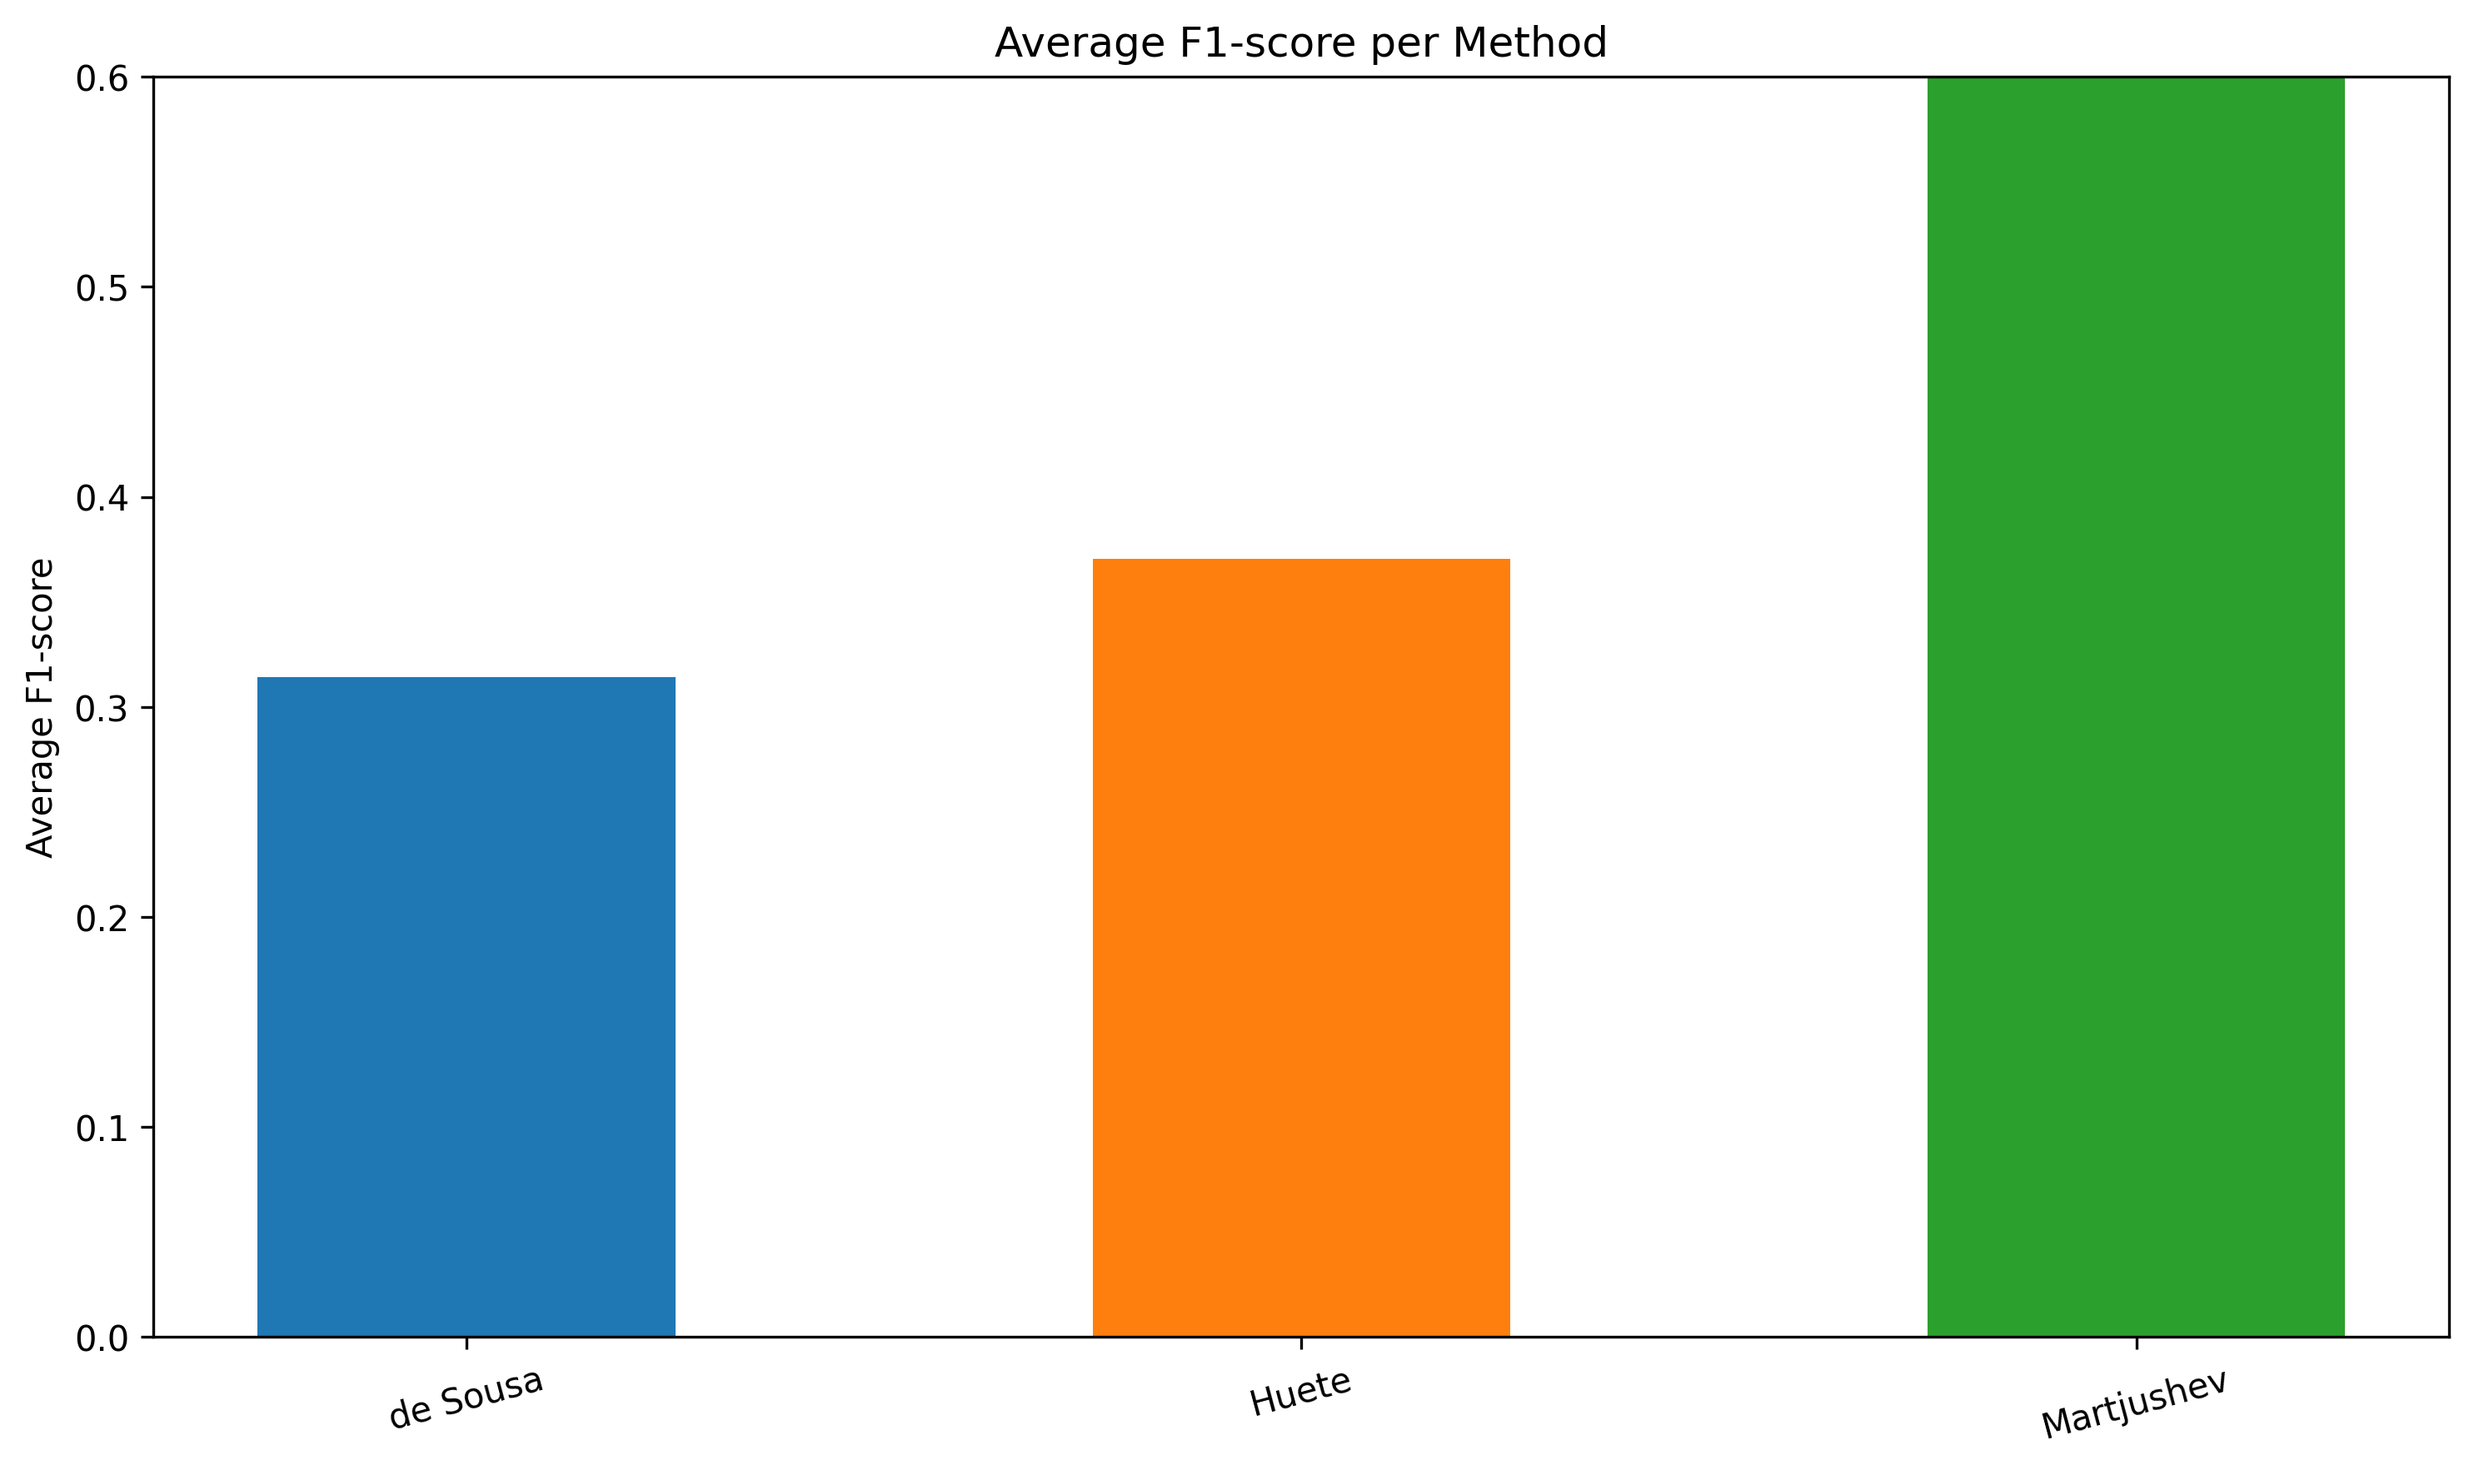
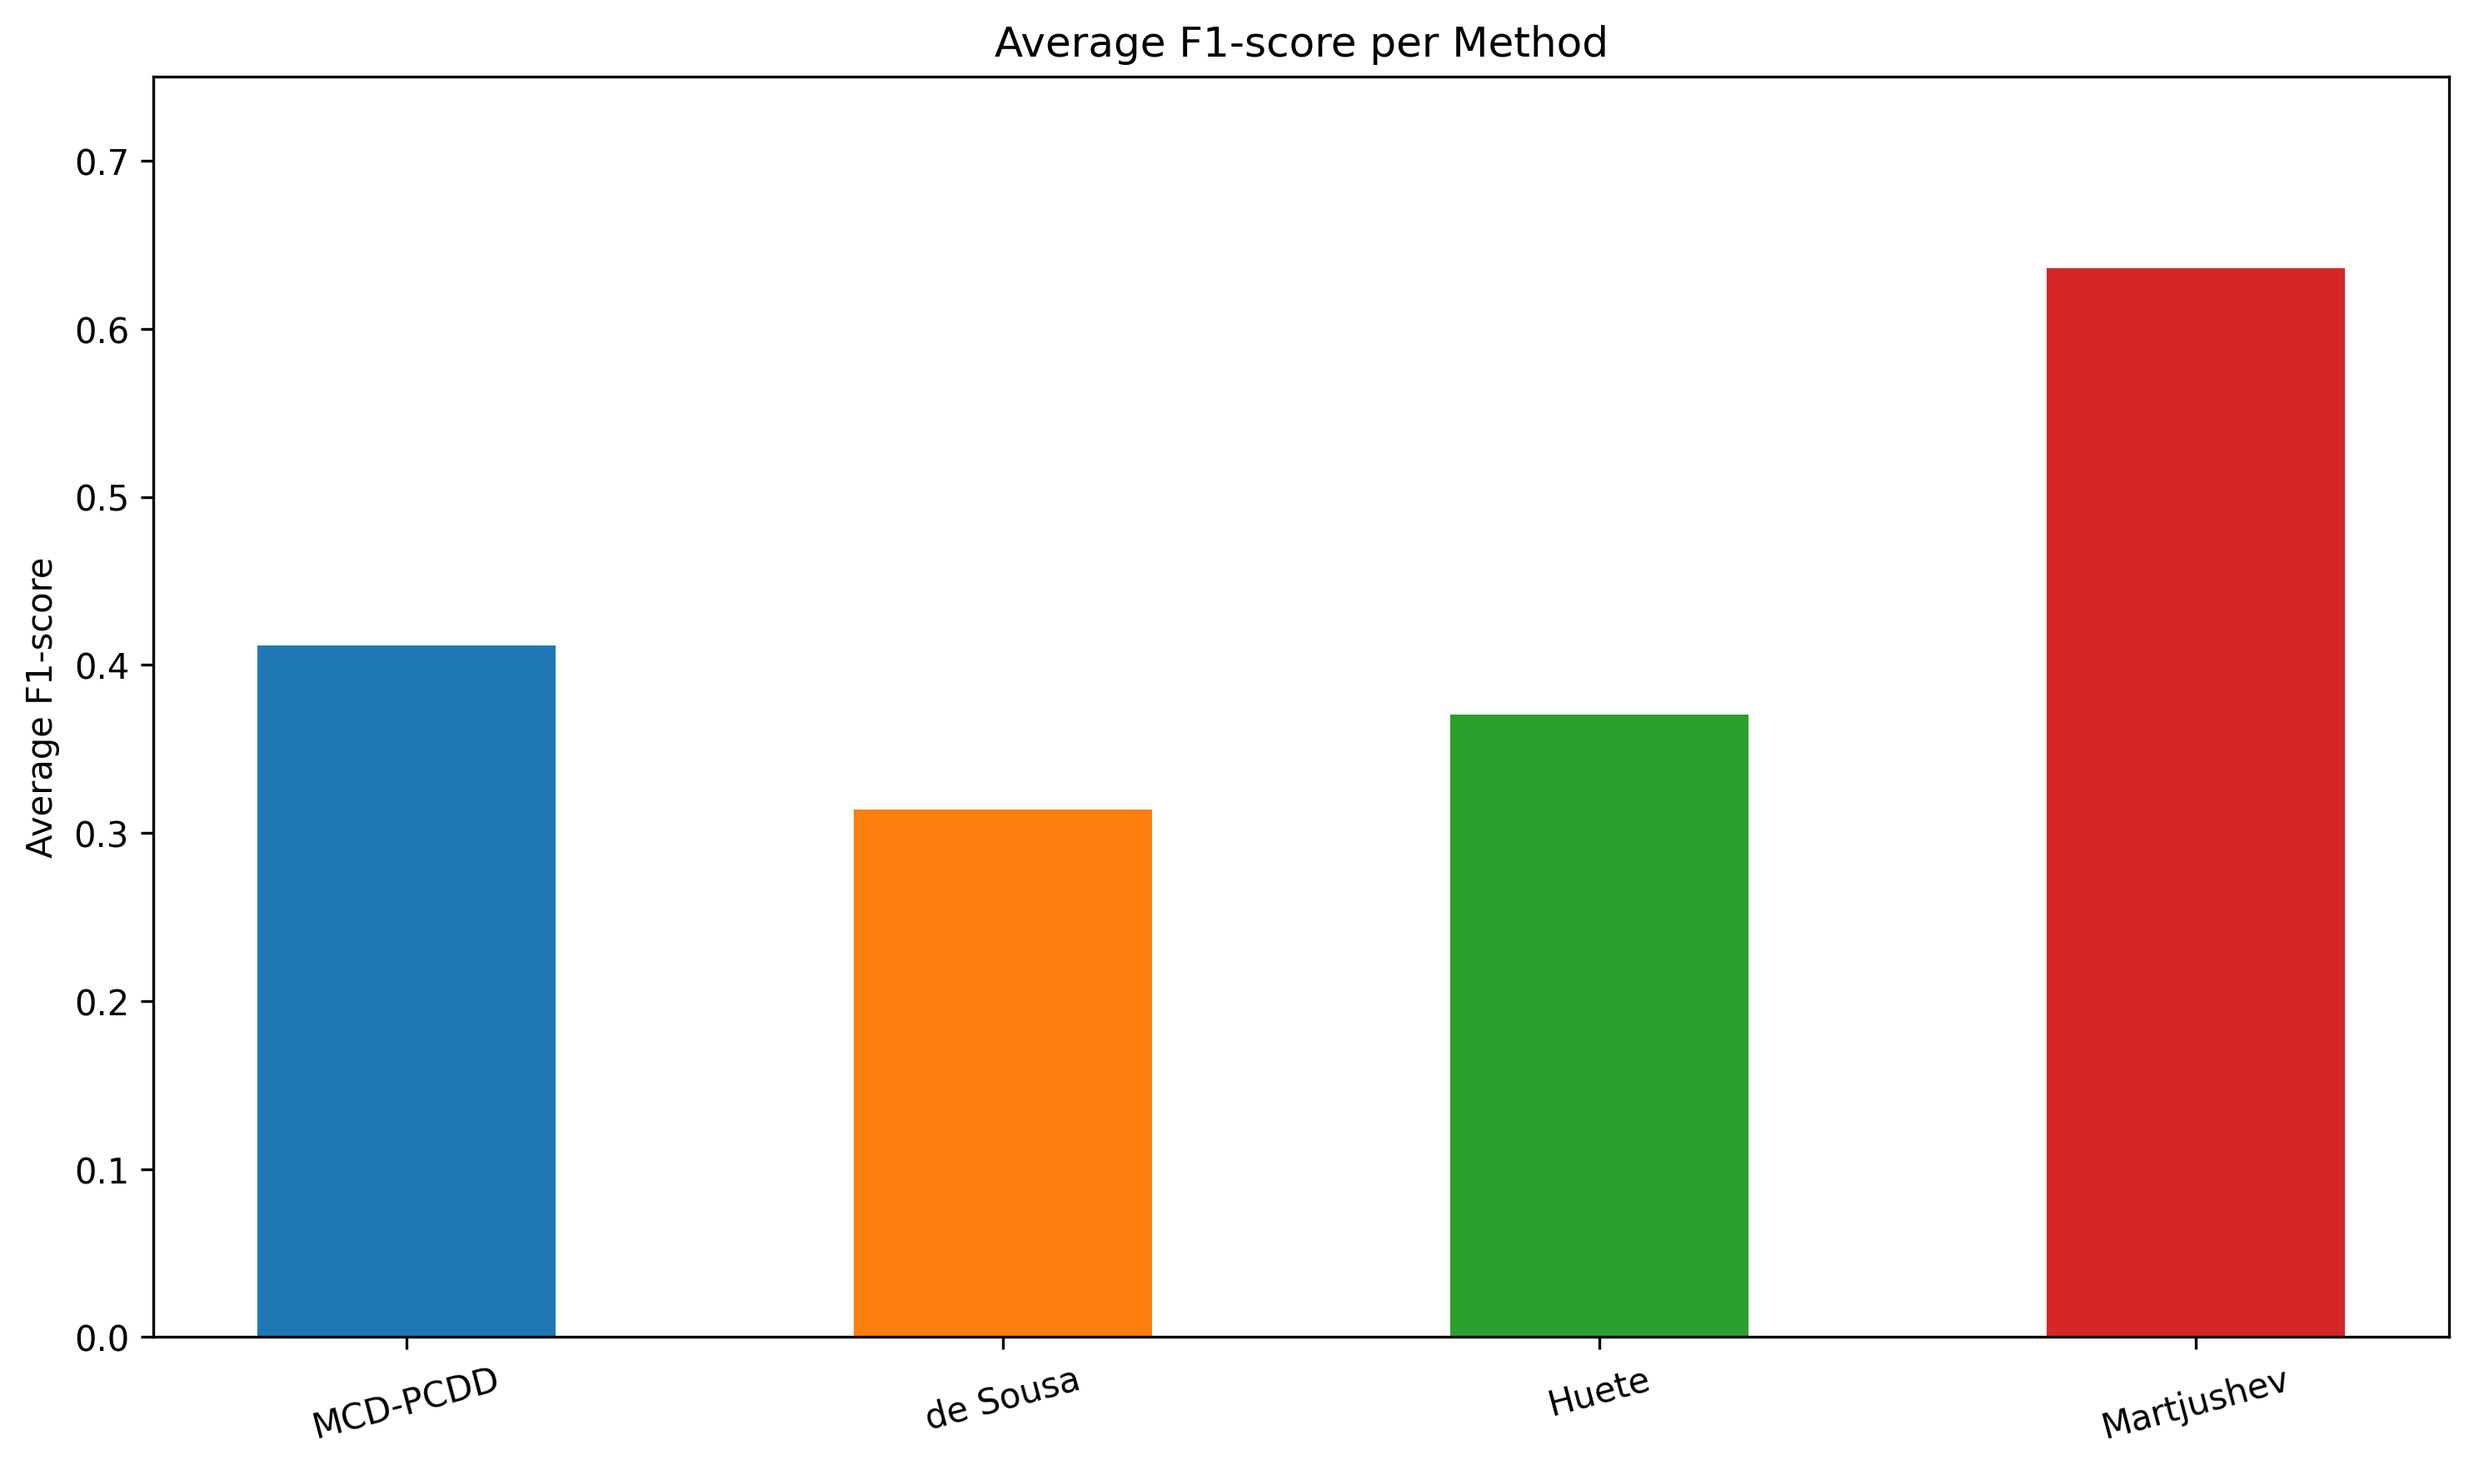
Experimental Setup Updates
-Added functionality for the results of the ablation study and parameter sensitivity analysis

diff --git a/Evaluation/ParameterSensitivityPlots.py b/Evaluation/ParameterSensitivityPlots.py
@@ -1,91 +1,114 @@
 import matplotlib.pyplot as plt
+import os
+
+# Create output folder
+output_dir = "Evaluation/Plots"
+os.makedirs(output_dir, exist_ok=True)
 
 # Common x-axis labels
-x_labels = ["Low", "Midlow", "Middle", "Midhigh", "High"]
+x_labels = ['Low', 'Mid-low', 'Middle', 'Mid-high', 'High']
+x = range(len(x_labels))
 
-# ==========================================================
-# MCDPCDD
-# ==========================================================
+# ==========================
+# DATA
+# ==========================
 
 mcdpcdd_f1 = {
-    "Window Size": [0.39, 0.36, 0.41, 0.34, 0.37],
-    "Num Subwindows": [0.22, 0.17, 0.41, 0.33, 0.31],
-    "Percentile": [0.31, 0.35, 0.41, 0.29, 0.00],
-    "Learning Rate": [0.36, 0.16, 0.41, 0.37, 0.30],
+    'Window Size': [0.39, 0.36, 0.41, 0.34, 0.37],
+    'Number of Subwindows': [0.22, 0.17, 0.41, 0.33, 0.31],
+    'Confidence Interval': [0.31, 0.35, 0.41, 0.29, 0.00],
+    'Learning Rate': [0.36, 0.16, 0.41, 0.37, 0.30]
 }
 
 mcdpcdd_latency = {
-    "Window Size": [55.42, 76.25, 60.11, 67.62, 84.29],
-    "Num Subwindows": [56.11, 47.75, 60.11, 69.70, 72.42],
-    "Percentile": [73.19, 52.04, 60.11, 43.91, 9.75],
-    "Learning Rate": [67.62, 38.00, 60.11, 65.12, 70.33],
+    'Window Size': [55.42, 76.25, 60.11, 67.62, 84.29],
+    'Number of Subwindows': [56.11, 47.75, 60.11, 69.70, 72.42],
+    'Confidence Interval': [73.19, 52.04, 60.11, 43.91, 9.75],
+    'Learning Rate': [67.62, 38.00, 60.11, 65.12, 70.33]
 }
 
-plt.figure(figsize=(8,5))
-
-for name, values in mcdpcdd_f1.items():
-    plt.plot(x_labels, values, marker='o', label=name)
-
-plt.title("MCDPCDD Parameter Sensitivity (F1-score)")
-plt.xlabel("Parameter Setting")
-plt.ylabel("F1-score")
-plt.grid(True)
-plt.legend()
-plt.tight_layout()
-
-plt.figure(figsize=(8,5))
-
-for name, values in mcdpcdd_latency.items():
-    plt.plot(x_labels, values, marker='o', label=name)
-
-plt.title("MCDPCDD Parameter Sensitivity (Latency)")
-plt.xlabel("Parameter Setting")
-plt.ylabel("Latency")
-plt.grid(True)
-plt.legend()
-plt.tight_layout()
-
-
-# ==========================================================
-# Martjushev
-# ==========================================================
-
-mart_f1 = {
-    "Window Size": [0.64, 0.64, 0.64, 0.64, 0.64],
-    "Population Min": [0.45, 0.62, 0.64, 0.62, 0.59],
-    "Population Max": [0.51, 0.56, 0.64, 0.49, 0.42],
-    "Threshold": [0.48, 0.54, 0.64, 0.62, 0.47],
+martjushev_f1 = {
+    'Minimum Population Size': [0.45, 0.62, 0.64, 0.62, 0.59],
+    'Maximum Population Size': [0.51, 0.56, 0.64, 0.49, 0.42],
+    'Detection Threshold': [0.48, 0.54, 0.64, 0.62, 0.47]
 }
 
-mart_latency = {
-    "Window Size": [24.68, 24.68, 24.68, 24.68, 24.68],
-    "Population Min": [30.44, 23.43, 24.68, 27.97, 32.25],
-    "Population Max": [23.29, 22.24, 24.68, 40.36, 54.12],
-    "Threshold": [26.73, 24.12, 24.68, 23.33, 34.27],
+martjushev_latency = {
+    'Minimum Population Size': [30.44, 23.43, 24.68, 27.97, 32.25],
+    'Maximum Population Size': [23.29, 22.24, 24.68, 40.36, 54.12],
+    'Detection Threshold': [26.73, 24.12, 24.68, 23.33, 34.27]
 }
 
-plt.figure(figsize=(8,5))
+# ==========================
+# PLOTTING FUNCTION
+# ==========================
 
-for name, values in mart_f1.items():
-    plt.plot(x_labels, values, marker='o', label=name)
+def create_sensitivity_plot(data, title, ylabel, filename):
+    plt.figure(figsize=(9, 5))
 
-plt.title("Martjushev Parameter Sensitivity (F1-score)")
-plt.xlabel("Parameter Setting")
-plt.ylabel("F1-score")
-plt.grid(True)
-plt.legend()
-plt.tight_layout()
+    for parameter, values in data.items():
 
-plt.figure(figsize=(8,5))
+        line, = plt.plot(
+            x,
+            values,
+            marker='o',
+            linewidth=2,
+            label=parameter
+        )
 
-for name, values in mart_latency.items():
-    plt.plot(x_labels, values, marker='o', label=name)
+        # Black middle point (optimal)
+        plt.scatter(
+            2,
+            values[2],
+            s=160,
+            color='black',
+            edgecolors='white',
+            linewidth=1.2,
+            zorder=5
+        )
 
-plt.title("Martjushev Parameter Sensitivity (Latency)")
-plt.xlabel("Parameter Setting")
-plt.ylabel("Latency")
-plt.grid(True)
-plt.legend()
-plt.tight_layout()
+    plt.xticks(x, x_labels)
+    plt.xlabel('Parameter Value')
+    plt.ylabel(ylabel)
+    plt.title(title)
+    plt.grid(True, alpha=0.3)
+    plt.legend()
+    plt.tight_layout()
 
-plt.show()
+    # Save instead of showing
+    save_path = os.path.join(output_dir, filename)
+    plt.savefig(save_path, dpi=300, bbox_inches='tight')
+    plt.close()
+
+
+# ==========================
+# SAVE FIGURES
+# ==========================
+
+create_sensitivity_plot(
+    mcdpcdd_f1,
+    'MCDPCDD Parameter Sensitivity (F1 Score)',
+    'F1 Score',
+    'mcdpcdd_f1.png'
+)
+
+create_sensitivity_plot(
+    mcdpcdd_latency,
+    'MCDPCDD Parameter Sensitivity (Latency)',
+    'Latency',
+    'mcdpcdd_latency.png'
+)
+
+create_sensitivity_plot(
+    martjushev_f1,
+    'Martjushev Parameter Sensitivity (F1 Score)',
+    'F1 Score',
+    'martjushev_f1.png'
+)
+
+create_sensitivity_plot(
+    martjushev_latency,
+    'Martjushev Parameter Sensitivity (Latency)',
+    'Latency',
+    'martjushev_latency.png'
+)

diff --git a/Evaluation/EvaluatePerformance.py b/Evaluation/EvaluatePerformance.py
@@ -470,7 +470,7 @@ def EvaluatePerformance(method_results_list,
             width=0.5
         )
 
-        plt.ylim(0, 0.6)
+        plt.ylim(0, 0.75)
 
         plt.title("Average F1-score per Method")
         plt.ylabel("Average F1-score")
@@ -499,7 +499,7 @@ def EvaluatePerformance(method_results_list,
             width=0.5
         )
 
-        plt.ylim(0, 0.6)
+        plt.ylim(0, 0.75)
 
         plt.title("Average Precision per Method")
         plt.ylabel("Average Precision")
@@ -529,7 +529,7 @@ def EvaluatePerformance(method_results_list,
         )
 
 
-        plt.ylim(0, 0.6)
+        plt.ylim(0, 0.75)
 
         plt.title("Average Recall per Method")
         plt.ylabel("Average Recall")
@@ -646,18 +646,22 @@ MCDPCDDCoords = {
 
 EvaluatePerformance(
         method_results_list=[
-        deSousaCoords,
-        hueteCoords,
-        martjushevCoords],
+            MCDPCDDCoords,
+            deSousaCoords,
+            hueteCoords,
+            martjushevCoords
+        ],
     method_names=[
+        "MCD-PCDD",
         "de Sousa",
         "Huete",
         "Martjushev"],
     
     allow_early_detection=[
-    False,   # de Sousa (online)
-    False,   # Huete (online)
-    True     # Martjushev (offline)
+    False,
+    False,
+    False,
+    True
     ],
     actualDriftCoords=actualDriftCoords,
     lag_window=200,

diff --git a/Framework/comparator.py b/Framework/comparator.py
@@ -30,6 +30,11 @@ class Comparator:
 
         self.model.train()
 
+        for param in self.model.parameters():
+            param.requires_grad = True
+
+        self.optimizer = torch.optim.Adam(self.model.parameters(), lr=0.0)
+
     # ---------------- SAMPLING ----------------
     def generate_samples(self, sub_win):
         return self.sampler.sample(sub_win)
